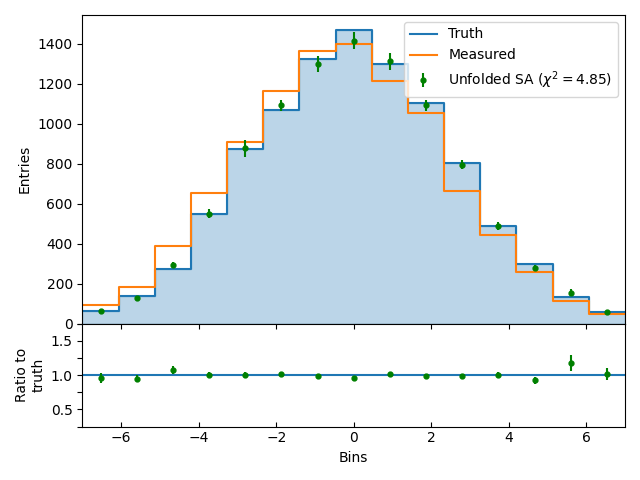
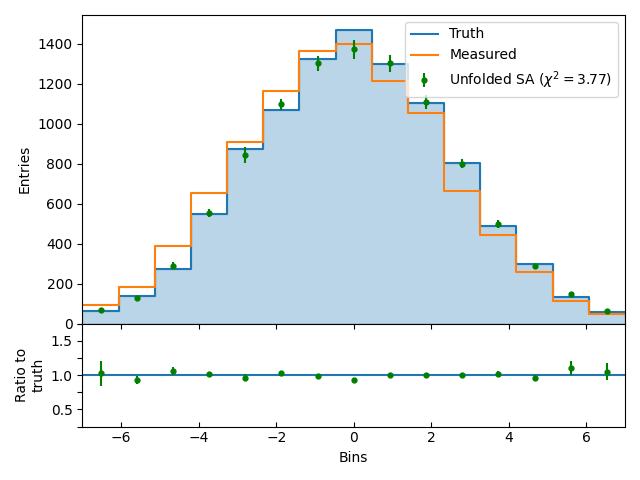
Minor fix to README and examples

diff --git a/examples/simneal_script.py b/examples/simneal_script.py
@@ -9,23 +9,22 @@ if __name__ == "__main__":
     num_bins = 15
     min_bin = -7.0
     max_bin = 7.0
-    bins = np.linspace(min_bin, max_bin, num_bins + 1)
-
-    seed = 42
-    np.random.seed(seed)
+    binning = np.linspace(min_bin, max_bin, num_bins + 1)
     mean = 0.0
     std = 2.6
     mean_smear = -0.3
     std_smear = 0.5
+
+    seed = 42
+    np.random.seed(seed)
 
     # Generate and normalize response matrix
     mc_data = np.random.normal(loc=mean, scale=std, size=num_entries)
     reco_data = mc_data + np.random.normal(
         loc=mean_smear, scale=std_smear, size=num_entries
     )
-    binning = np.array([-np.inf] + bins.tolist() + [np.inf])
-    response, _, _ = np.histogram2d(reco_data, mc_data, bins=binning)
-    mc_truth, _ = np.histogram(mc_data, bins=binning)
+    response = np.histogram2d(reco_data, mc_data, bins=binning)[0]
+    mc_truth = np.histogram(mc_data, bins=binning)[0]
     response = normalize_response(response, mc_truth)
 
     # Generate random true data
@@ -37,24 +36,38 @@ if __name__ == "__main__":
     )
 
     # Generate truth and measured histograms
-    truth, _ = np.histogram(true_data, bins=binning)
-    measured, _ = np.histogram(meas_data, bins=binning)
+    truth = np.histogram(true_data, bins=binning)[0]
+    measured = np.histogram(meas_data, bins=binning)[0]
 
     # Run simulated annealing to solve QUBO problem
     unfolder = QUnfoldQUBO(response, measured, lam=0.1)
-    unfolded, error, cov_matrix, corr_matrix = unfolder.solve_simulated_annealing(
+    unfolder.initialize_qubo_model()
+    sol, err, cov = unfolder.solve_simulated_annealing(
         num_reads=10, num_toys=100, seed=seed
     )
 
-    # Plot unfolding result
+    ################## Quantum Annealing solver ##################
+    """
+    unfolder.set_quantum_device(
+        device_name="Advantage_system6.4",
+        dwave_token="<your_dwave_token>",
+    )
+    unfolder.set_graph_embedding()
+    print("DWave_device =", unfolder._sampler.solver)
+    print("num_logical_qubits =", unfolder.num_logical_qubits)
+    print("num_physical_qubits =", unfolder.num_physical_qubits)
+    sol, err, cov = unfolder.solve_quantum_annealing(num_reads=4000)
+    """
+
+    chi2 = compute_chi2(observed=sol, expected=truth, covariance=cov)
     plotter = QUnfoldPlotter(
-        response=response[1:-1, 1:-1],
-        measured=measured[1:-1],
-        truth=truth[1:-1],
-        unfolded=unfolded[1:-1],
-        error=error[1:-1],
-        binning=bins,
-        chi2=compute_chi2(unfolded[1:-1], truth[1:-1], cov_matrix[1:-1, 1:-1]),
+        response=response,
+        measured=measured,
+        truth=truth,
+        unfolded=sol,
+        error=err,
+        binning=binning,
+        chi2=chi2,
     )
     plotter.saveResponse("examples/simneal_response.png")
     plotter.savePlot("examples/simneal_result.png", method="SA")

diff --git a/README.md b/README.md
@@ -91,31 +91,21 @@ pip install QUnfold
 To run QUnfold on a dataset you can do the following steps:
 
 ```python
-# Import QUnfold base class and plotter
-from QUnfold import QUnfoldQUBO
-from QUnfold import QUnfoldPlotter
+from QUnfold import QUnfoldQUBO, QUnfoldPlotter
 
-# Read numpy data from a file or sample them
-truth = ... # truth distribution
-measured = ... # measured distribution
-response = ... # response matrix
-binning = ... # binning of the distributions
-
-# Run unfolding
 unfolder = QUnfoldQUBO(response, measured, lam=0.1)
-unfolded_SA, error_SA, cov_matrix_SA, corr_matrix_SA = unfolder.solve_simulated_annealing(num_reads=10, num_toys=100)
+unfolder.initialize_qubo_model()
 
-# Plot results
+unfolded_SA, error_SA = unfolder.solve_simulated_annealing(num_reads=100)
+
 plotter = QUnfoldPlotter(
     response=response,
     measured=measured,
     truth=truth,
     unfolded=unfolded_SA,
     error=error_SA,
-    binning=binning,
-    chi2=compute_chi2(unfolded, truth, cov_matrix),
+    binning=binning
 )
-plotter.plotResponse()
 plotter.plot()
 ```
 
@@ -135,16 +125,14 @@ which will produce a similar result to this unfolded normal distribution:
 To use `ROOT` data add the following steps at the beginning of the code:
 
 ```python
-# Import ROOT converters
 from QUnfold.utility import TH1_to_array, TH2_to_array
 
-# Read data as before...
 # Convert data from ROOT to numpy
 truth = TH1_to_array(truth)
 measured = TH1_to_array(measured)
 response = TH2_to_array(response.Hresponse())
 
-# Run analysis as before...
+# Run unfolding as in the NumPy case above...
 ```
 
 ## Tests
